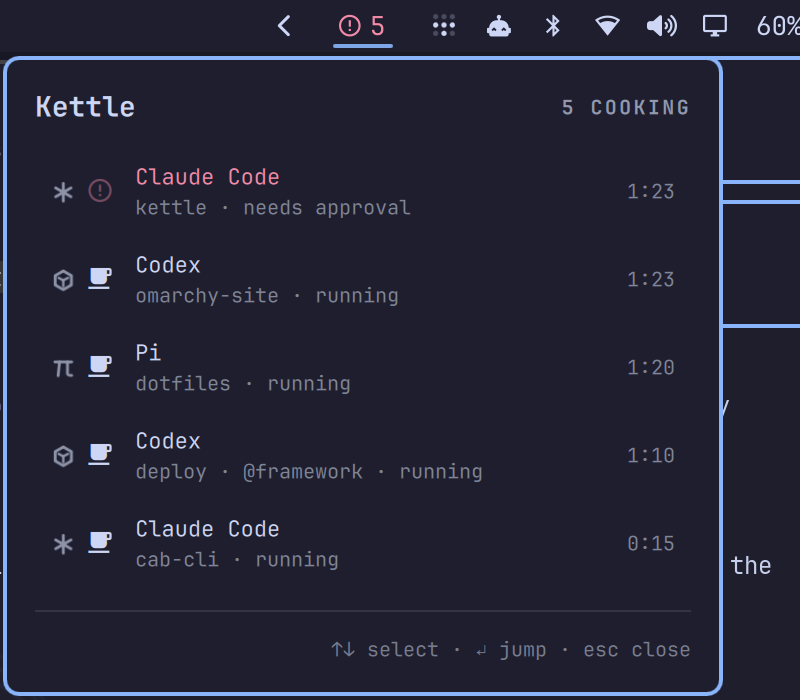
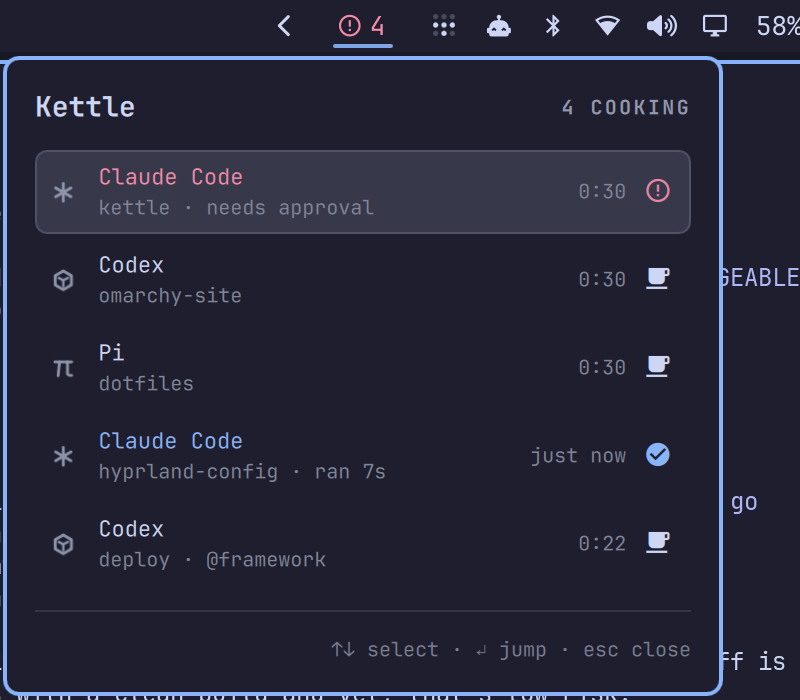
Move the status glyph into a right-hand column
Sitting next to the agent mark, the two icons read as one crowded pair with
no clear meaning. Split across the row they answer separate questions: the
left mark is who, the right glyph is what.

That made the state word in the subtitle redundant and it was eliding the
duration, so the subtitle now carries only what the glyph cannot say —
project, host, and how long the run took. The word survives for
needs-attention and burnt, where it is more specific than the shape.

diff --git a/Panel.qml b/Panel.qml
@@ -383,8 +383,8 @@ Panel {
                 color: root.severityColor(row.modelData.state)
                 font.family: root.bar.fontFamily
                 font.pixelSize: Style.font.title
-                anchors.left: rowMark.right
-                anchors.leftMargin: Style.space(6)
+                anchors.right: parent.right
+                anchors.rightMargin: Style.space(10)
                 anchors.verticalCenter: parent.verticalCenter
 
                 // Only needs-attention moves. Motion is reserved for the one
@@ -399,7 +399,7 @@ Panel {
               }
 
               Column {
-                anchors.left: rowGlyph.right
+                anchors.left: rowMark.right
                 anchors.leftMargin: Style.space(11)
                 anchors.right: age.left
                 anchors.rightMargin: Style.space(8)
@@ -417,14 +417,19 @@ Panel {
 
                 Text {
                   text: {
-                    var head = row.modelData.project ? row.modelData.project + " · " : ""
-                    if (row.modelData.host) head += "@" + row.modelData.host + " · "
+                    // The status glyph now carries the state, so repeating it
+                    // here only crowds the row and elides what is actually
+                    // informative — the duration and the host.
+                    var bits = []
+                    if (row.modelData.project) bits.push(row.modelData.project)
+                    if (row.modelData.host) bits.push("@" + row.modelData.host)
                     var ran = store.ranWord(row.modelData)
-                    // A finished pot reports how long it ran; a live one
-                    // reports what it is doing.
-                    if (ran && !store.isLive(row.modelData.state))
-                      return head + root.stateWord(row.modelData) + " · " + ran
-                    return head + root.stateWord(row.modelData)
+                    if (ran && !store.isLive(row.modelData.state)) bits.push(ran)
+                    // Kept only where the word says more than the glyph can.
+                    if (row.modelData.state === "needs-attention") bits.push("needs approval")
+                    else if (row.modelData.state === "burnt") bits.push("failed")
+                    else if (row.modelData.state === "murky") bits.push("unclear")
+                    return bits.join(" · ")
                   }
                   color: Qt.darker(root.bar.foreground, 1.6)
                   font.family: root.bar.fontFamily
@@ -440,8 +445,8 @@ Panel {
                 color: Qt.darker(root.bar.foreground, 1.6)
                 font.family: root.bar.fontFamily
                 font.pixelSize: Style.font.caption
-                anchors.right: parent.right
-                anchors.rightMargin: Style.space(8)
+                anchors.right: rowGlyph.left
+                anchors.rightMargin: Style.space(10)
                 anchors.verticalCenter: parent.verticalCenter
               }
             }
